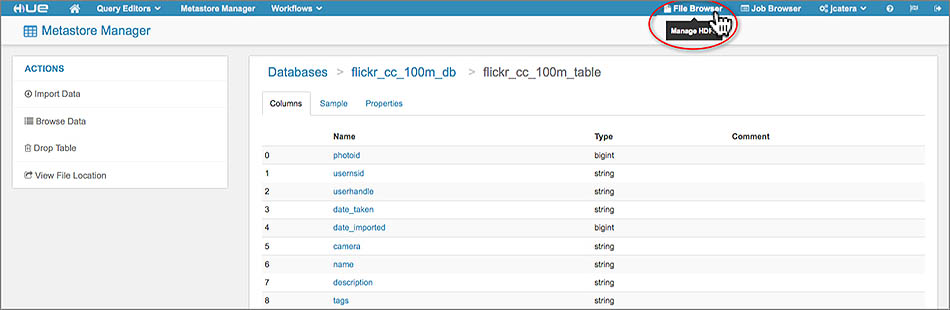
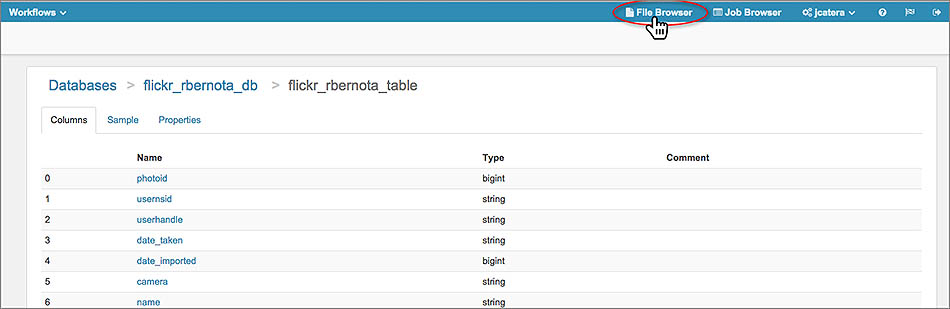
Fixed some screenshots.

diff --git a/external/hue/guide/getting_started/index.rst b/external/hue/guide/getting_started/index.rst
@@ -4,6 +4,8 @@ Getting Started
 
 **Time Required:** 30-40 minutes
 
+.. _hue_getting_started-intro:
+
 Introduction
 ============
 
@@ -24,6 +26,9 @@ We'll be using Flickr data to do the following in this tutorial:
   execute a Hadoop job with several tasks. 
 - Monitor Hadoop jobs in the **Job Browser**.
 
+
+.. _hue_getting_started-prereq:
+
 Prerequisites
 -------------
 
@@ -38,8 +43,12 @@ Prerequisites
   - `Oozie Overview <http://oozie.apache.org/>`_
   - `Getting Started on the Yahoo Grid <https://yahoo.jiveon.com/docs/DOC-46590>`_
 
+.. _hue_getting_started-about:
+
 About the Tutorial 
 ------------------
+
+.. _about-org:
 
 Organization
 ~~~~~~~~~~~~
@@ -50,6 +59,9 @@ then gradually becoming more complex until you're
 creating an Oozie Workflow to automate several
 jobs. For each section, we also offer additional 
 tips for using Hue.
+
+
+.. _about-conventions:
 
 Conventions
 ~~~~~~~~~~~
@@ -71,6 +83,8 @@ you be told to click the **arrowhead** icon rather
 than shown a shrunken image of the icon.
 
 
+.. _about-queues:
+
 Hadoop Queues
 ~~~~~~~~~~~~~
 
@@ -78,6 +92,7 @@ Also, we'll be using the ``default`` queue for running jobs, but we suggest
 that you use your team's queue because for faster job processing. We'll
 show you how to set the queue in the tutorial.
 
+.. _hue_getting_started-disc_data:
 
 1. Discovering Data
 ===================
@@ -105,14 +120,23 @@ and then view the results in Hue.
       :alt: Data Discovery Tool
       :align: left      
 
-#. You'll see the database ``flickr_cc_100m_db`` in the Tiberium Tan cluster.
+#. From the **Cluster** drop-down menu, select **Tiberium Tan**.
 
-   .. image:: images/dd_flickr_database.jpg
-      :height: 603px
+   .. image:: images/select_cluster.jpg
+      :height: 551px
       :width: 950 px
       :scale: 90%
-      :alt: Flickr Database in Data Discovery Tool 
-      :align: left    
+      :alt: Select Cluster From Data Discovery Tool
+
+#. From the **Search** page, with **Tiberium Tan** selected as the cluster,
+   enter **flickr_rbernota_db** in the **Database** field. The database **flickr_rbernota_db**
+   and the table **flickr_rbernota_table** will be displayed.
+
+   .. image:: images/select_db_table.jpg
+      :height: 298px
+      :width: 950 px
+      :scale: 90%
+      :alt: Enter the Database and Table From Tiberium Tan
 
 #. Click on the database and you'll be taken to a page giving general information and the schema.
    Click **View in Hue**.
@@ -125,7 +149,7 @@ and then view the results in Hue.
       :align: left 
     
 #. Add the exception and accept the certificate for Hue as you did for the **Data Discovery**.
-   You should see the **flickr_cc_100m_db** database in **Hue** as shown below:
+   You should see the **flickr_rbernota_db** database in **Hue** as shown below:
    
    .. image:: images/hue_flickr_db.jpg
       :height: 490px
@@ -141,6 +165,7 @@ and then view the results in Hue.
           database, and table. From the **General Info** page,
           you can view the table in **Hue**.
 
+.. _hue_getting_started-file_browser:
 
 2. Navigating HDFS With File Browser
 ====================================
@@ -154,7 +179,7 @@ and then view the results in Hue.
       :alt: Click File Browser
       :align: left 
  
-#. You should see your home directory on Tiberium Tan that gives a long format listing of files.
+#. You should see your home directory with a long-format listing of files.
 
    .. image:: images/home_directory.jpg
       :height: 355px
@@ -215,6 +240,8 @@ and then view the results in Hue.
          - delete and create 
          - upload 
 
+
+.. _hue_getting_started-create_db_tables:
 
 3. Creating Database/Tables
 ===========================
@@ -374,6 +401,8 @@ you copied to your home directory.
             
 
 
+.. _hue_getting_started-view_metadata:
+
 4. Viewing Metadata and Data from Metastore Manager
 ===================================================
 
@@ -490,8 +519,13 @@ Creating the Table
    to the **Databases > sb2014_{your_user_name} > sb2014_{your_user_name}_tb** panel, where you
    can view the columns (names and types), sample data, and table properties.
 
+
+.. _hue_getting_started-query_data:
+
 5. Querying Data With Hive and Pig
 ==================================
+
+.. _query_data-hive:
 
 Using Hive
 ----------
@@ -1281,6 +1315,8 @@ by a user or key term, also look at the cluster and ResourceManager logs.
 Troubleshooting
 =============== 
 
+.. _gs_troubleshooting-general:
+
 General
 -------
 
@@ -1289,6 +1325,8 @@ General
 - Check the ResourceManager logs. Go to **Job Browser**, click
   the job ID link, and then the logs link. 
  
+
+.. _gs_troubleshooting-hive_pig:
 
 Hive/Pig Jobs 
 -------------
@@ -1312,12 +1350,13 @@ Confirm that you have down the following:
   see what is the available capacity is for your queue. You may want to use 
   a different queue.
 
+.. _gs_troubleshooting-shell:
+
 Shell Scripts
 -------------
 
-- Make sure you have specified the path with the script (i.e., ``/user/{your_user_name}/script.sh``)
-  in the **Files** field.
-
+Make sure you have specified the path with the script (i.e., ``/user/{your_user_name}/script.sh``)
+in the **Files** field.
 
 
 .. *Home page* - shows your project and your history, queries, could share possibly.
